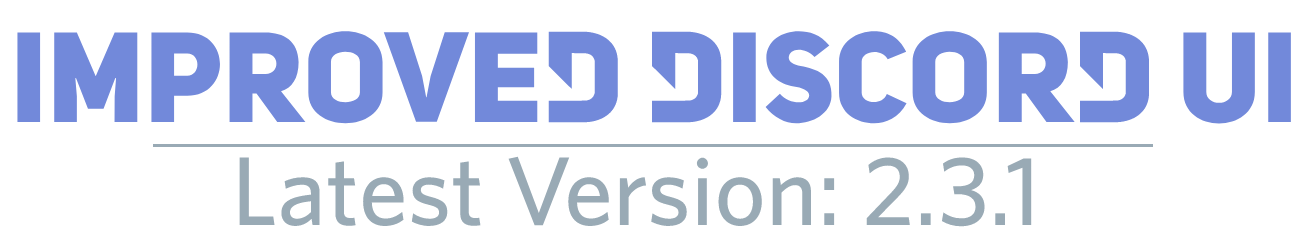
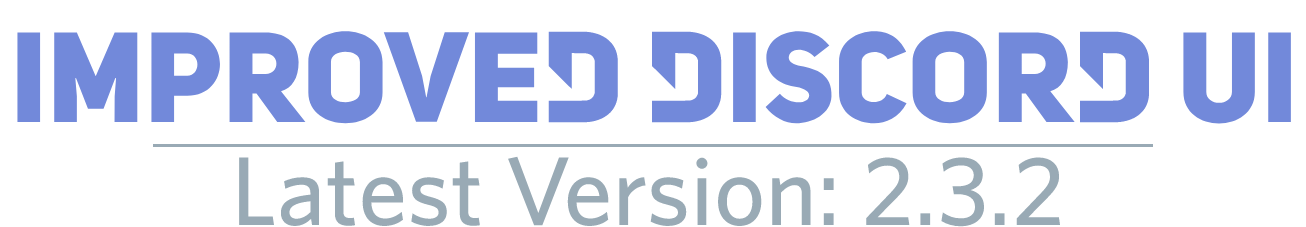
Patched CSS issues [RevertRebrand] (BD) | v2.3.2

diff --git a/base.css b/base.css
@@ -332,6 +332,31 @@ svg.mask-1qbNWk > rect[fill="rgba(250, 166, 26, 1)"] {
     fill: #faa61a !important;
 }
 
+#bd-pub-button {
+    font-size: 0px;
+}
+#bd-pub-button:after {
+    content: "Servers";
+    display: flex;
+    justify-content: center;
+    position: relative;
+    font-family: var(--font-primary) !important;
+    color: #fff;
+    text-transform: uppercase;
+    font-size: 9px;
+    font-weight: 400;
+}
+#bd-pub-button:hover {
+    font-family: var(--font-primary) !important;
+    font-size: 0px;
+    font-weight: 400;
+    background: var(--brand-experiment);
+}
+
+.bd-addon-views .bd-view-button.selected, .bd-button:hover {
+    background-color: var(--brand-experiment-560);
+}
+
 /* Bring popout closer to avatar :p */
 #app-mount .container-3baos1 .nameTag-3uD-yy {
     left: 162px !important;
@@ -347,6 +372,31 @@ a[href^="http://"] {
 
 a[href^="http://"]:after {
   content: " [INSECURE]";
+}
+
+#bd-pub-button {
+    font-size: 0px;
+}
+#bd-pub-button:after {
+    content: "Servers";
+    display: flex;
+    justify-content: center;
+    position: relative;
+    font-family: var(--font-primary) !important;
+    color: #fff;
+    text-transform: uppercase;
+    font-size: 9px;
+    font-weight: 400;
+}
+#bd-pub-button:hover {
+    font-family: var(--font-primary) !important;
+    font-size: 0px;
+    font-weight: 400;
+    background: var(--brand-experiment);
+}
+
+.bd-addon-views .bd-view-button.selected, .bd-button:hover {
+    background-color: var(--brand-experiment-560);
 }
 
 [aria-label*="download"] .icon-1DeIlz, [aria-label*="verify"] .icon-1DeIlz, [aria-label*="verification"] .icon-1DeIlz, [aria-label*="guide"] .icon-1DeIlz, [aria-label*="tutorial"] .icon-1DeIlz {

diff --git a/index.user.css b/index.user.css
@@ -4,7 +4,7 @@
 @author       KayoticCarnige
 @namespace    https://github.com/kckarnige/improved-ui
 @homepageURL  https://kckarnige.is-a.dev/improved-ui
-@version      2.3.1
+@version      2.3.2
 ==/UserStyle== */
 @-moz-document domain("discord.com"), domain("dev.fosscord.com") {
  

diff --git a/improvedui.theme.css b/improvedui.theme.css
@@ -1,7 +1,7 @@
 /**
 
  * @name Improved Discord UI
- * @version 2.3.1
+ * @version 2.3.2
  * @description A simple, slightly customizable theme for Discord
  * @author KayoticCarnige
  * @source https://github.com/kckarnige/improved-ui
